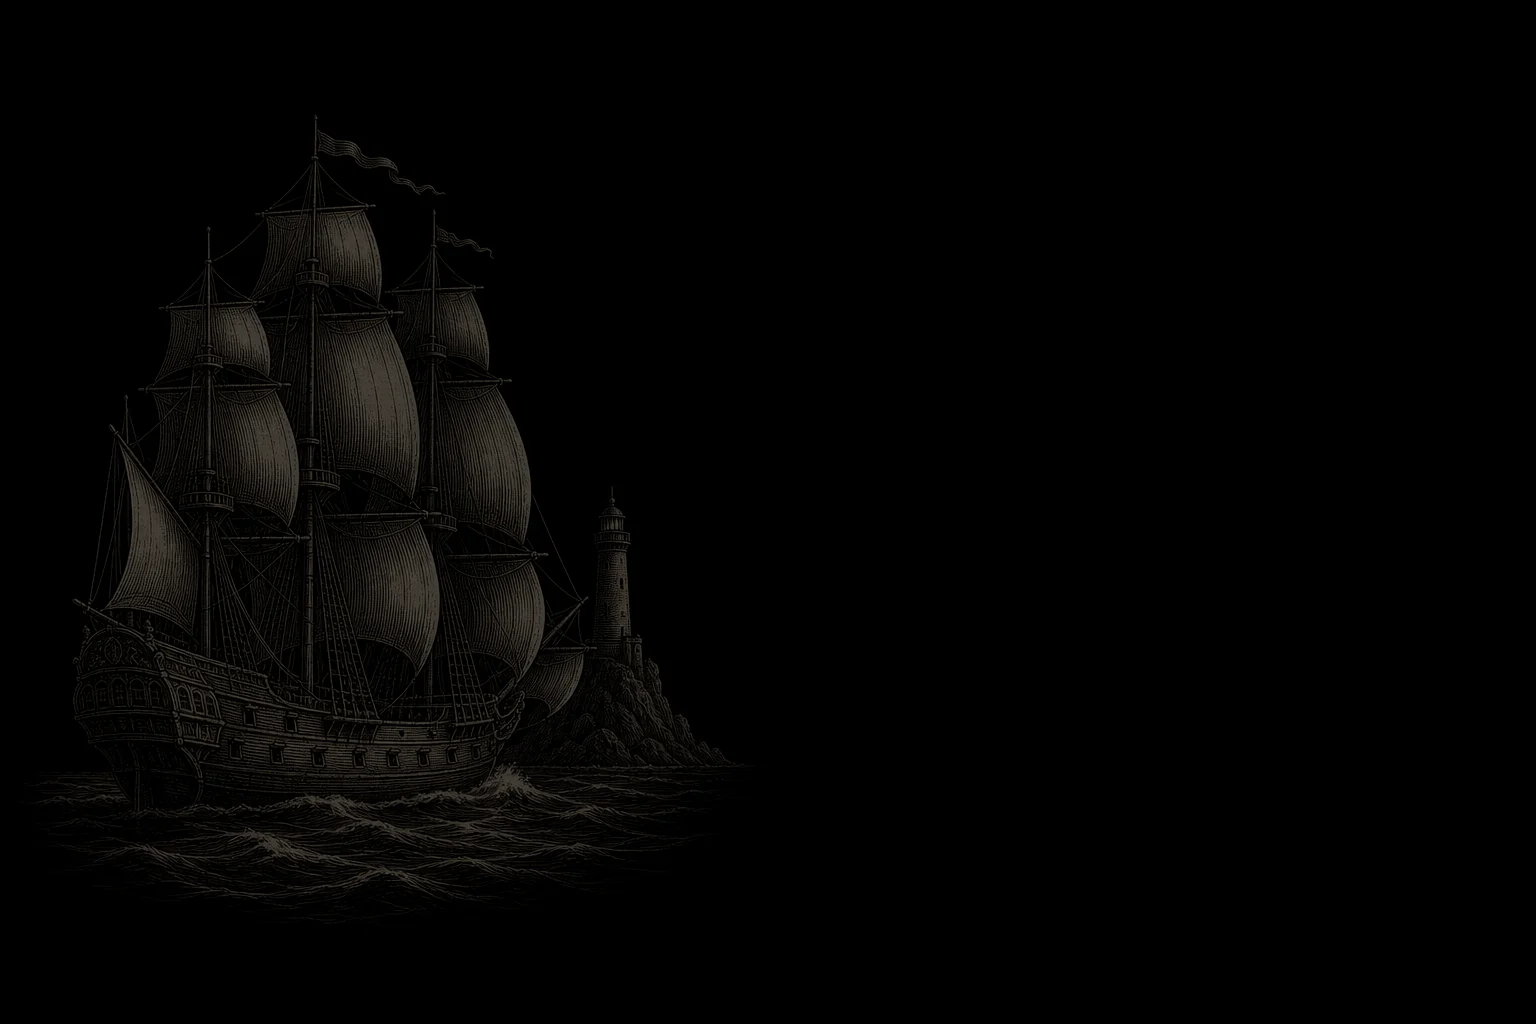
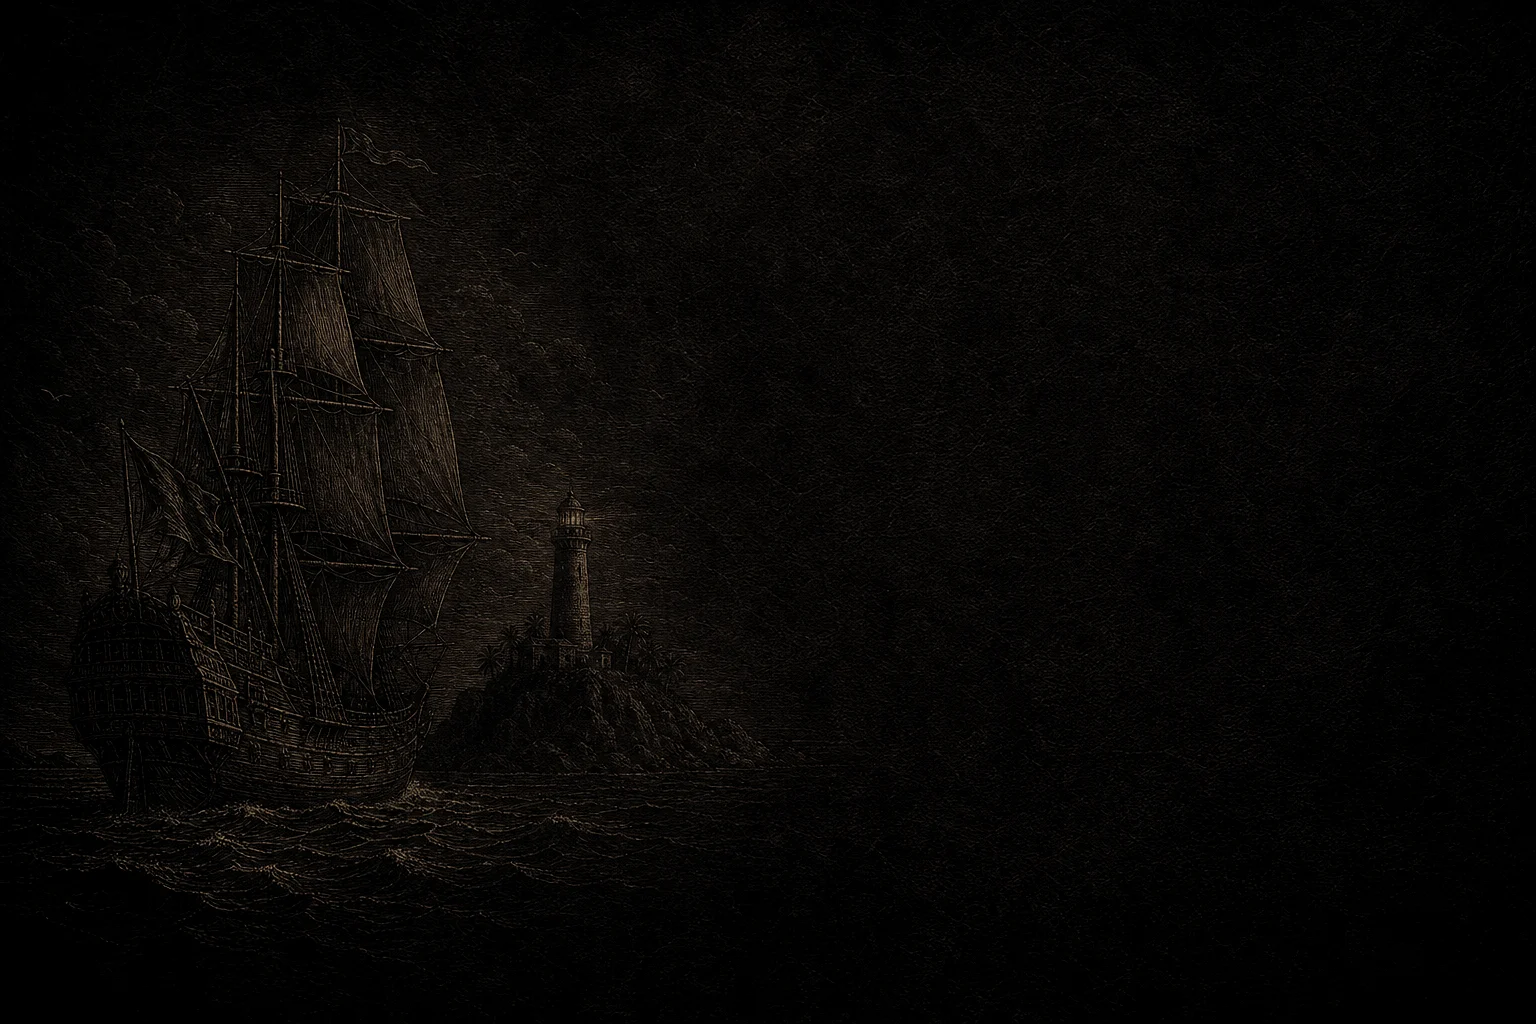
Multi background reverted; single/lobby style options (?fbs=1-4, ?fbm=2)
Claude-Session: https://claude.ai/code/session_013sjMXzgNW8RNoyAHnNNuvx

Changed region(s): [[0.0312, 0.0938, 0.5, 0.875], [0.0312, 0.7188, 0.0938, 0.7812]]

diff --git a/index.html b/index.html
@@ -1593,8 +1593,8 @@ html.phone #deco .bl{height:56vh}html.phone #deco .br{height:50vh}
 
 
 /* setup / lobby: faint illustration under the leather — single: harbour painting, multi: galleon engraving, lobby: sea chart */
-.sheet-frame.sheet-single,.sheet-frame.sheet-multi,.sheet-frame.sheet-lobby{--fbgi:url(assets/fbg/C.webp)}
-.sheet-frame.sheet-multi{--fbgi:url(assets/fbg/B.webp)}.sheet-frame.sheet-lobby{--fbgi:url(assets/fbg/A.webp)}
+.sheet-frame.sheet-single,.sheet-frame.sheet-multi,.sheet-frame.sheet-lobby{--fbgi:var(--fbgC,url(assets/fbg/C.webp))}
+.sheet-frame.sheet-multi{--fbgi:url(assets/fbg/B.webp)}.sheet-frame.sheet-lobby{--fbgi:var(--fbgA,url(assets/fbg/A.webp))}
 .sheet-frame.sheet-single::before,.sheet-frame.sheet-multi::before,.sheet-frame.sheet-lobby::before{content:'';position:absolute;inset:0;background:var(--fbgi) left center/cover no-repeat;mix-blend-mode:screen;opacity:.8;pointer-events:none;z-index:0;-webkit-mask-image:linear-gradient(90deg,transparent,#000 6%,#000 94%,transparent),linear-gradient(180deg,transparent,#000 8%,#000 92%,transparent);-webkit-mask-composite:source-in;mask-image:linear-gradient(90deg,transparent,#000 6%,#000 94%,transparent),linear-gradient(180deg,transparent,#000 8%,#000 92%,transparent);mask-composite:intersect}
 .sheet-frame>.fhead,.sheet-frame>.fbody{position:relative;z-index:1}
 html body .sheet.sheet-frame.sheet-single,html body .sheet.sheet-frame.sheet-multi,html body .sheet.sheet-frame.sheet-lobby{background:linear-gradient(rgba(14,12,10,.42),rgba(14,12,10,.42)),url(assets/ui/leather.jpg) 0 0/360px 360px repeat!important;background-clip:border-box!important}
@@ -3123,6 +3123,7 @@ function showCredits(){openDialog(`<h3>Credits &amp; Licenses</h3><div class="cr
   <p class="cmuted">배경음악·효과음·영상: Pixabay (Pixabay Content License)<br>첫 화면 반짝임 입자: Kenney Particle Pack (CC0)</p></div><div class="row"><button class="btn sub" id="crOk">확인</button></div>`);$('#crOk').onclick=closeDialog;}
 
 // table dressing around the sea: curtains, valance and corner props, darkened behind the UI (pointer-transparent)
+{const q=location.search,r=document.documentElement.style;let m=/[?&]fbs=([1-4])/.exec(q);if(m)r.setProperty('--fbgC',`url(assets/fbg/C${m[1]}.webp)`);if(/[?&]fbm=2/.test(q))r.setProperty('--fbgA','url(assets/fbg/A2.webp)');}
 function addDeco(){if(!/[?&]deco=1/.test(location.search)||document.getElementById('deco'))return;const st=document.getElementById('stage');if(!st)return;const d=document.createElement('div');d.id='deco';
   d.innerHTML='<i class="dk cur l"></i><i class="dk cur r"></i><i class="dk ml"></i><i class="dk mr"></i><i class="dk bl"></i><i class="dk br"></i><i class="dvig"></i>';
   const cv=st.querySelector('canvas');if(cv&&cv.nextSibling)st.insertBefore(d,cv.nextSibling);else st.appendChild(d);}
